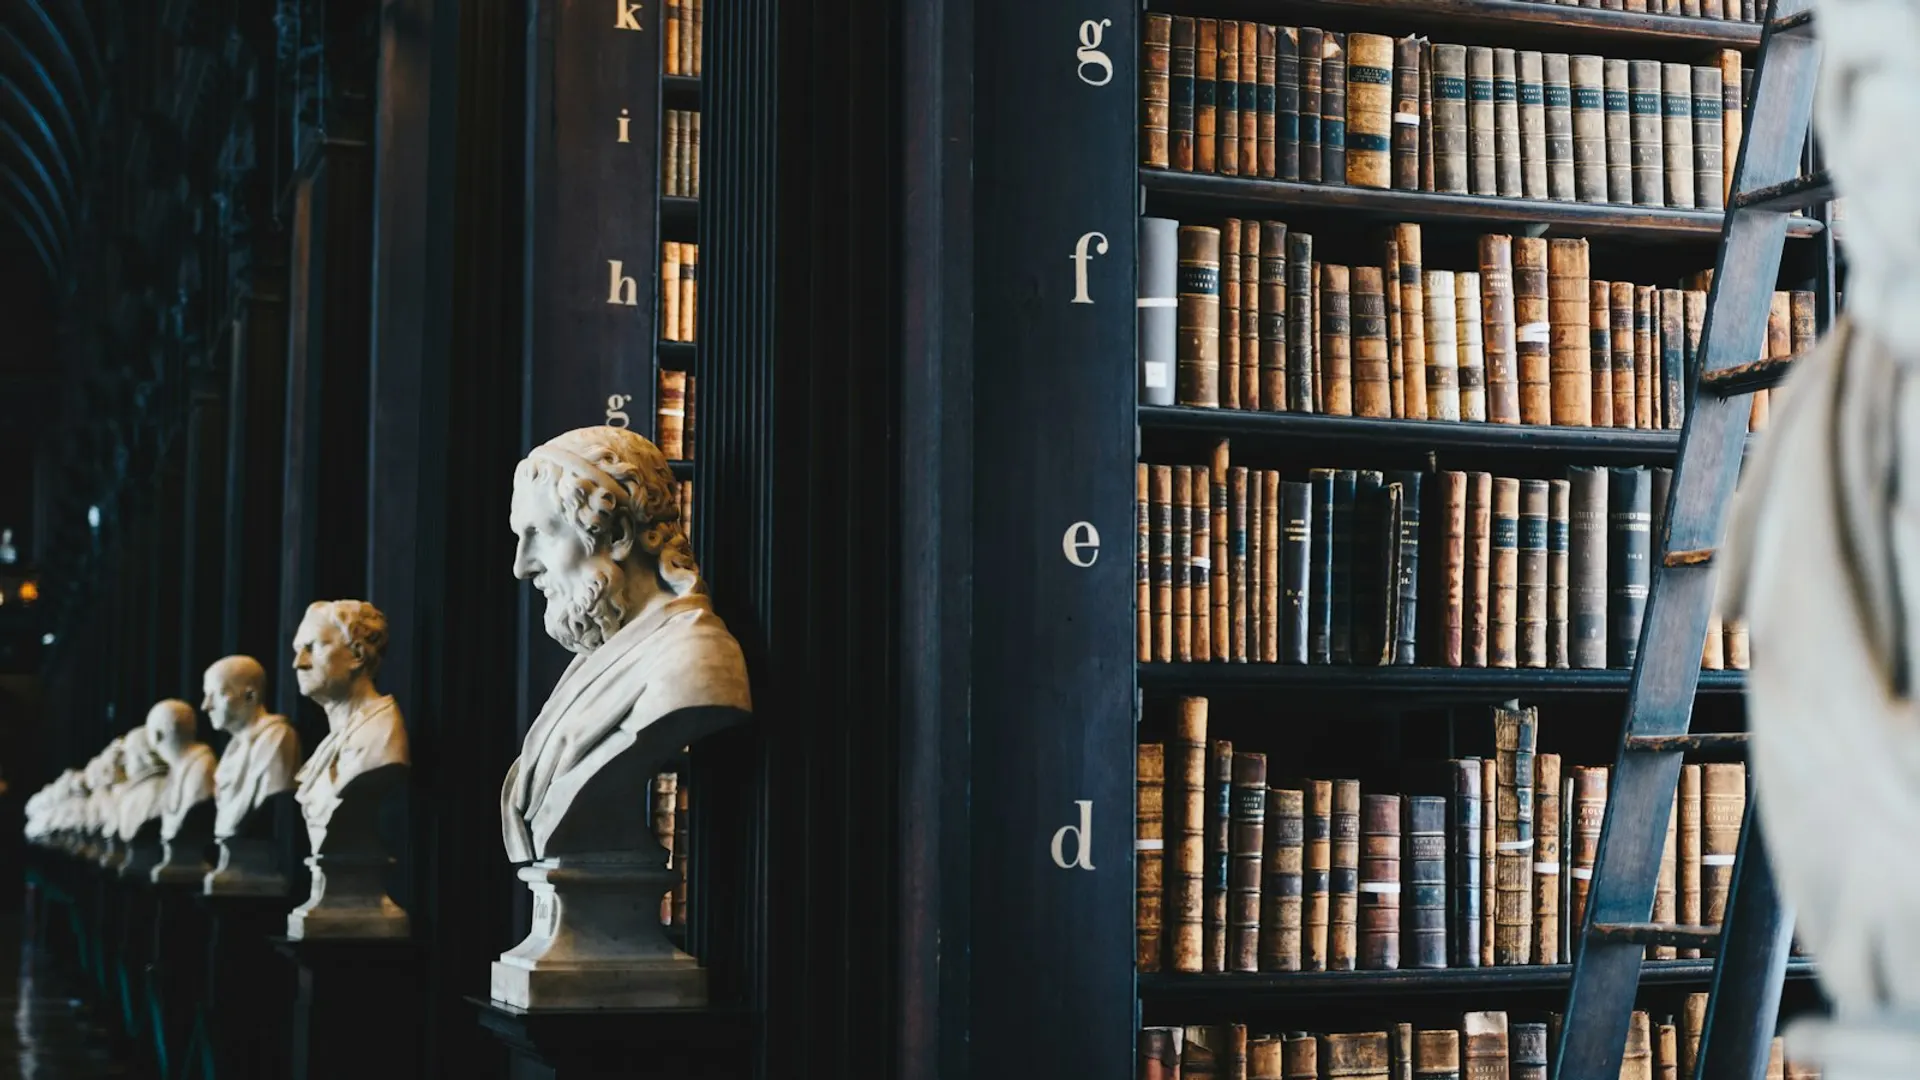
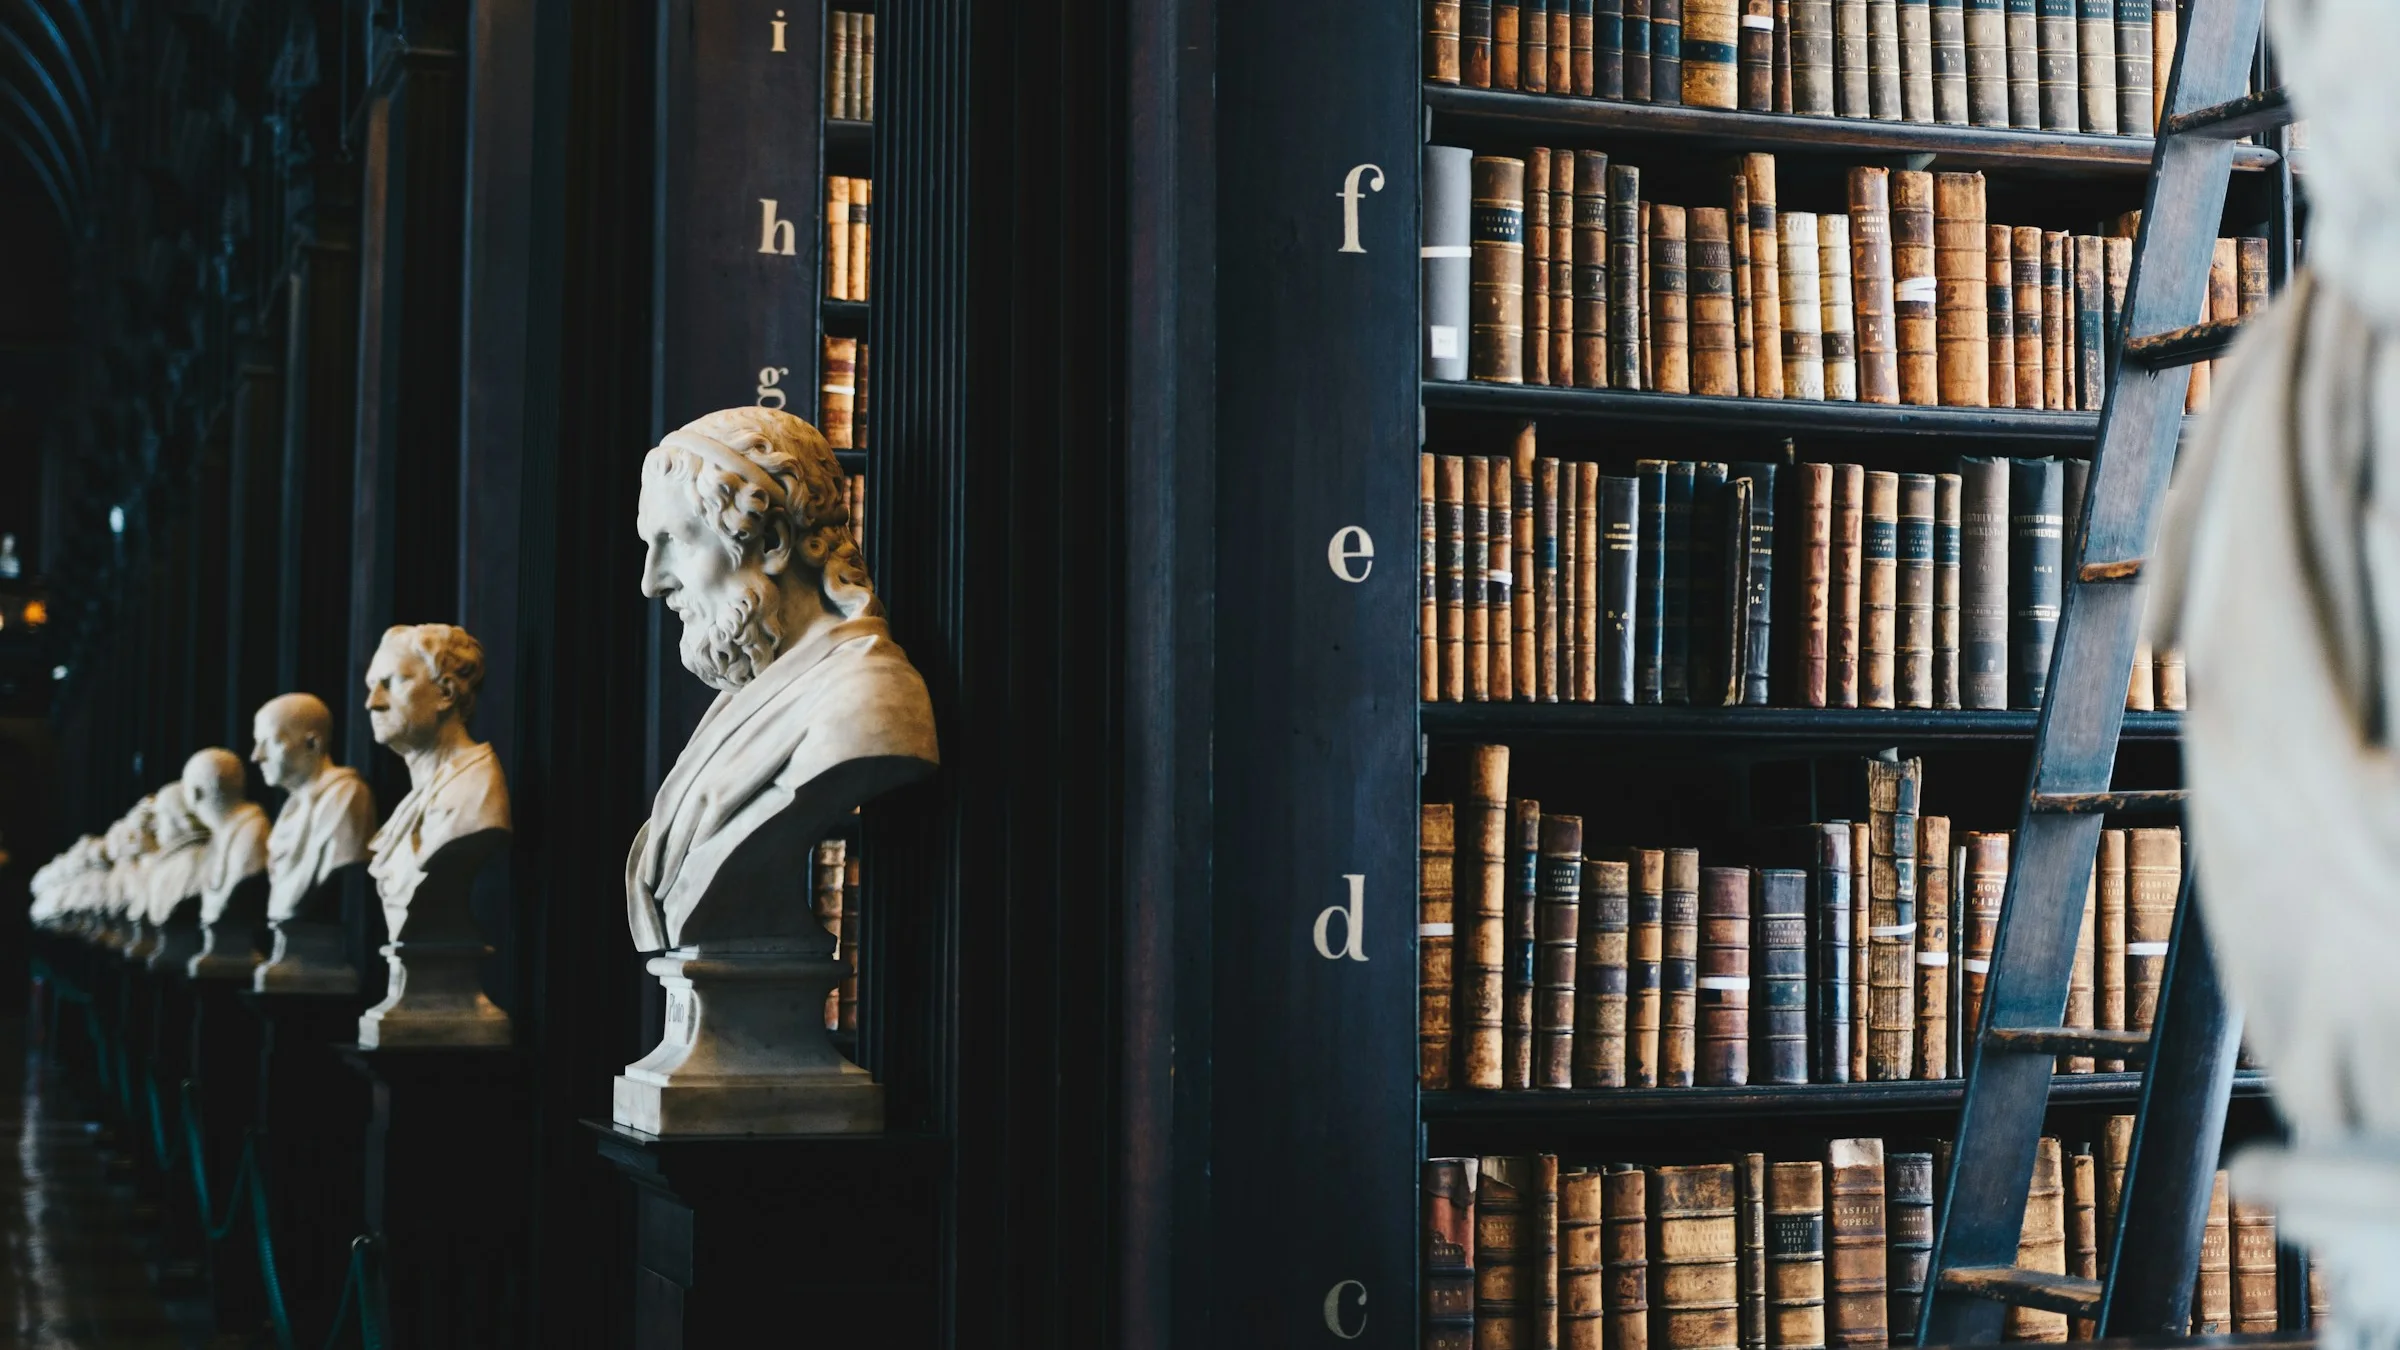
Fotoğrafları yüksek çözünürlükte yeniden işle, animasyonları zenginleştir
Kalite: ilk turda 1600px indirilen kareler 1920'ye büyütülmüştü —
bulanıklığın sebebi buydu. 2400px kaynaklardan büyütmesiz yeniden
işlendi (hero 2400×1350, sayfa içi 1600×1280, webp q84, merkez kırpma).

Animasyon katmanı ("çok basit" geri bildirimi üzerine):
- Scroll parallax: alt sayfa hero fotoğrafları ve anasayfa tanıtım
  görseli kaydırmayla ters yönde süzülüyor (yeni Parallax bileşeni,
  görsel %16 büyük tutulduğu için kenar açılmıyor).
- Tüm Reveal/Stagger girişlerine blur-in eklendi: içerik artık
  bulanıktan netleşerek geliyor — düz fade'den belirgin şekilde zengin.
- Hero ve CTA'daki altın çizgiler statik değil: ışık şeridi çizgi
  boyunca yavaşça geziyor (gold-hairline).
- Altın butonlarda hover'da soldan sağa ışıltı süpürmesi.
- Ken Burns ve süzülen ışımalar önceki turdan korunuyor; tamamı
  prefers-reduced-motion'da kapanıyor.

diff --git a/src/app/(site)/[locale]/page.tsx b/src/app/(site)/[locale]/page.tsx
@@ -5,7 +5,7 @@ import { isLocale, pick, type Locale } from '@/lib/i18n'
 import { href, serviceHref } from '@/lib/nav'
 import { getImage, getServices, getT, serviceSlug } from '@/lib/content'
 import { buildMetadata } from '@/lib/seo'
-import { Reveal, RevealOnMount, Stagger, StaggerItem, TextReveal } from '@/components/motion'
+import { Parallax, Reveal, RevealOnMount, Stagger, StaggerItem, TextReveal } from '@/components/motion'
 import SmartImage from '@/components/site/SmartImage'
 import SectionHeading from '@/components/site/SectionHeading'
 import ServiceCard from '@/components/site/ServiceCard'
@@ -80,15 +80,8 @@ export default async function HomePage({ params }: { params: Promise<{ locale: s
           </div>
         )}
 
-        {/* Alt kenarda, ortada yoğunlaşan çok ince altın çizgi */}
-        <div
-          className="absolute inset-x-0 bottom-0 h-px opacity-60"
-          style={{
-            background:
-              'linear-gradient(90deg, transparent 0%, var(--accent) 35%, var(--accent) 65%, transparent 100%)',
-          }}
-          aria-hidden
-        />
+        {/* Alt kenarda, ışığı yavaşça gezen ince altın çizgi */}
+        <div className="gold-hairline absolute inset-x-0 bottom-0" aria-hidden />
 
         {/* Mobilde vh yerine sabit rem: küçük ekranda uzun Türkçe başlık 78vh'i
             aşınca bölüm metinle birlikte büyüyor ve TR/EN yükseklikleri
@@ -135,13 +128,17 @@ export default async function HomePage({ params }: { params: Promise<{ locale: s
         {introImage.src ? (
           <div className="grid items-center gap-12 lg:grid-cols-2 lg:gap-16">
             <Reveal direction="right">
-              <SmartImage
-                src={introImage.src}
-                alt={introImage.alt}
-                ratio="aspect-[5/4]"
-                sizes="(min-width: 1024px) 50vw, 100vw"
-                className="border border-paper-line"
-              />
+              <div className="overflow-hidden border border-paper-line">
+                {/* Kart içinde hafif ters parallax — fotoğraf %12 büyük tutuluyor */}
+                <Parallax amount={26} className="-my-[6%]">
+                  <SmartImage
+                    src={introImage.src}
+                    alt={introImage.alt}
+                    ratio="aspect-[5/4]"
+                    sizes="(min-width: 1024px) 50vw, 100vw"
+                  />
+                </Parallax>
+              </div>
             </Reveal>
 
             <div>
@@ -252,15 +249,8 @@ async function CtaBand({
   const bg = await getImage('home.cta.background', locale)
   return (
     <section className="relative overflow-hidden bg-navy-900">
-      {/* Hero'nun alt çizgisiyle aynı dil: üst kenarda ince altın vurgu */}
-      <div
-        className="absolute inset-x-0 top-0 h-px opacity-60"
-        style={{
-          background:
-            'linear-gradient(90deg, transparent 0%, var(--accent) 35%, var(--accent) 65%, transparent 100%)',
-        }}
-        aria-hidden
-      />
+      {/* Hero'nun alt çizgisiyle aynı dil: üst kenarda gezinen altın ışık */}
+      <div className="gold-hairline absolute inset-x-0 top-0" aria-hidden />
       {bg.src ? (
         <>
           <div className="absolute inset-0">

diff --git a/src/components/motion.tsx b/src/components/motion.tsx
@@ -1,7 +1,14 @@
 'use client'
 
-import { motion, useReducedMotion, type Variants, type HTMLMotionProps } from 'framer-motion'
-import type { ReactNode } from 'react'
+import {
+  motion,
+  useReducedMotion,
+  useScroll,
+  useTransform,
+  type Variants,
+  type HTMLMotionProps,
+} from 'framer-motion'
+import { useRef, type ReactNode } from 'react'
 
 /**
  * TEK HAREKET KAYNAĞI.
@@ -67,11 +74,12 @@ export function Reveal({
     <Comp
       className={className}
       data-reveal
-      initial={{ opacity: 0, x: offset.x, y: offset.y }}
+      initial={{ opacity: 0, x: offset.x, y: offset.y, filter: 'blur(7px)' }}
       whileInView={{
         opacity: 1,
         x: 0,
         y: 0,
+        filter: 'blur(0px)',
         transition: { duration: DURATION.base, ease: EASE_OUT, delay: delay / 1000 },
       }}
       viewport={{ once, amount }}
@@ -105,11 +113,12 @@ export function RevealOnMount({
     <Comp
       className={className}
       data-reveal
-      initial={{ opacity: 0, x: offset.x, y: offset.y }}
+      initial={{ opacity: 0, x: offset.x, y: offset.y, filter: 'blur(7px)' }}
       animate={{
         opacity: 1,
         x: 0,
         y: 0,
+        filter: 'blur(0px)',
         transition: { duration: DURATION.slow, ease: EASE_OUT, delay: delay / 1000 },
       }}
     >
@@ -124,8 +133,13 @@ const staggerParent: Variants = {
 }
 
 const staggerChild: Variants = {
-  hidden: { opacity: 0, y: 16 },
-  show: { opacity: 1, y: 0, transition: { duration: DURATION.base, ease: EASE_OUT } },
+  hidden: { opacity: 0, y: 16, filter: 'blur(6px)' },
+  show: {
+    opacity: 1,
+    y: 0,
+    filter: 'blur(0px)',
+    transition: { duration: DURATION.base, ease: EASE_OUT },
+  },
 }
 
 export function Stagger({
@@ -240,6 +254,42 @@ export function TextReveal({
         ))}
       </motion.span>
     </Tag>
+  )
+}
+
+/**
+ * Kaydırmaya bağlı yumuşak parallax. Görsel, bölümden %16 daha uzun tutulup
+ * ters yönde kaydırılır — kenarlarda boşluk açılmaz.
+ *
+ * DİKKAT: transform'u yalnızca Motion yönetir (style={{y}}); bu sarmalayıcıya
+ * CSS transform/animasyon VERME. İçerideki <img>'e uygulanan kenburns ayrı
+ * eleman olduğu için çakışmaz.
+ */
+export function Parallax({
+  children,
+  className,
+  amount = 46,
+}: {
+  children: ReactNode
+  className?: string
+  amount?: number
+}) {
+  const reduce = useReducedMotion()
+  const ref = useRef<HTMLDivElement>(null)
+  const { scrollYProgress } = useScroll({ target: ref, offset: ['start end', 'end start'] })
+  const y = useTransform(scrollYProgress, [0, 1], [-amount, amount])
+
+  if (reduce) {
+    return (
+      <div ref={ref} className={className}>
+        {children}
+      </div>
+    )
+  }
+  return (
+    <motion.div ref={ref} style={{ y }} className={className}>
+      {children}
+    </motion.div>
   )
 }
 

diff --git a/src/app/globals.css b/src/app/globals.css
@@ -73,11 +73,29 @@
     @apply btn bg-navy-700 text-white hover:bg-navy-800;
   }
   .btn-accent {
-    @apply btn text-white;
+    @apply btn relative overflow-hidden text-white;
     background-color: var(--accent);
   }
   .btn-accent:hover {
-    filter: brightness(0.92);
+    filter: brightness(0.94);
+  }
+  /* Hover'da soldan sağa süpüren ince ışıltı */
+  .btn-accent::after {
+    content: '';
+    position: absolute;
+    inset: 0;
+    background: linear-gradient(
+      105deg,
+      transparent 42%,
+      rgba(255, 255, 255, 0.32) 50%,
+      transparent 58%
+    );
+    transform: translateX(-130%);
+    transition: transform 0.65s ease;
+    pointer-events: none;
+  }
+  .btn-accent:hover::after {
+    transform: translateX(130%);
   }
   .btn-outline {
     @apply btn border border-navy-200 bg-transparent text-navy-800 hover:border-navy-700 hover:bg-navy-50;
@@ -212,6 +230,30 @@
   will-change: transform;
 }
 
+/* Hero/CTA kenarındaki altın çizgi: ışık şeridi yavaşça çizgi boyunca gezer. */
+.gold-hairline {
+  height: 1px;
+  opacity: 0.65;
+  background-image: linear-gradient(
+    90deg,
+    transparent 0%,
+    var(--accent) 30%,
+    #e8d4ae 50%,
+    var(--accent) 70%,
+    transparent 100%
+  );
+  background-size: 200% 100%;
+  animation: hairline-pan 9s linear infinite;
+}
+@keyframes hairline-pan {
+  from {
+    background-position: 200% 0;
+  }
+  to {
+    background-position: -200% 0;
+  }
+}
+
 /* Altın ayraç çizgisi soldan sağa çizilir (hero başlığının altında). */
 @keyframes rule-grow {
   from {
@@ -230,7 +272,11 @@
   .kenburns,
   .drift-a,
   .drift-b,
-  .rule-grow {
+  .rule-grow,
+  .gold-hairline {
     animation: none !important;
+  }
+  .btn-accent::after {
+    display: none;
   }
 }

diff --git a/src/components/site/PageHero.tsx b/src/components/site/PageHero.tsx
@@ -1,4 +1,4 @@
-import { Reveal, RevealOnMount, TextReveal } from '@/components/motion'
+import { Parallax, Reveal, RevealOnMount, TextReveal } from '@/components/motion'
 import SmartImage from './SmartImage'
 
 /**
@@ -22,16 +22,20 @@ export default function PageHero({
     <section className="relative overflow-hidden border-b border-paper-line bg-paper-soft">
       {hasImage ? (
         <>
-          <div className="absolute inset-0">
-            <SmartImage
-              src={image!.src}
-              alt={image!.alt}
-              ratio="h-full"
-              className="h-full w-full"
-              imageClassName="kenburns"
-              priority
-              sizes="100vw"
-            />
+          <div className="absolute inset-0 overflow-hidden">
+            {/* Görsel bölümden %16 uzun: parallax kayması kenar boşluğu açmaz.
+                Parallax'ın transform'u Motion'da, kenburns img'de — ayrı elemanlar. */}
+            <Parallax className="absolute -inset-y-[8%] inset-x-0">
+              <SmartImage
+                src={image!.src}
+                alt={image!.alt}
+                ratio="h-full"
+                className="h-full w-full"
+                imageClassName="kenburns"
+                priority
+                sizes="100vw"
+              />
+            </Parallax>
           </div>
           {/* /72 Tailwind opasite skalasında yok — sınıf üretilmiyordu ve örtü
               hiç uygulanmıyordu; 5'in katı olmalı. */}

diff --git a/src/content/defaults.ts b/src/content/defaults.ts
@@ -403,8 +403,8 @@ const m = (
   ...(bundled ? { bundled: { src: `/defaults/${key}.webp`, ...bundled } } : {}),
 })
 
-const HERO = { width: 1920, height: 1080 }
-const BODY = { width: 1500, height: 1200 }
+const HERO = { width: 2400, height: 1350 }
+const BODY = { width: 1600, height: 1280 }
 
 export const mediaSlotDefaults: MediaSlotDefault[] = [
   // Anasayfa hero'suna bilerek paket görsel verilmedi — müşteri isteği:
